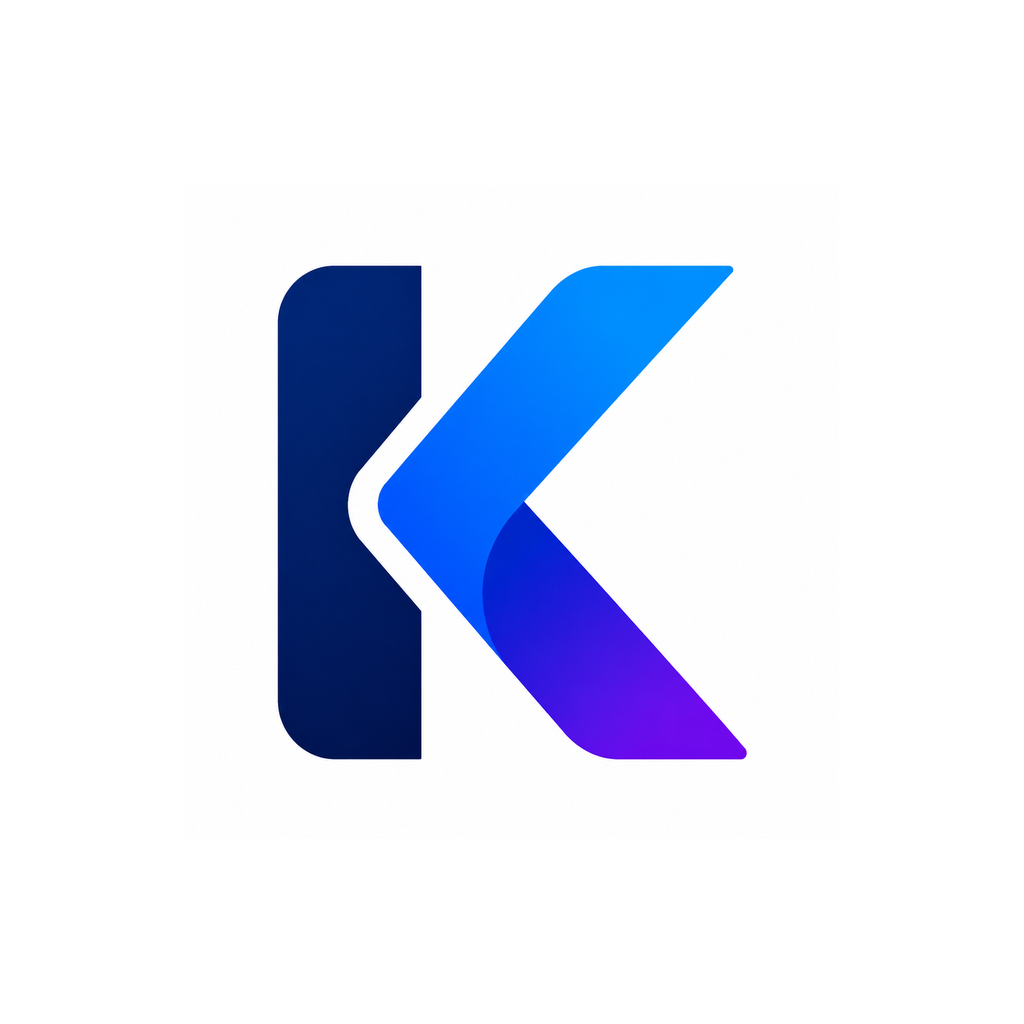
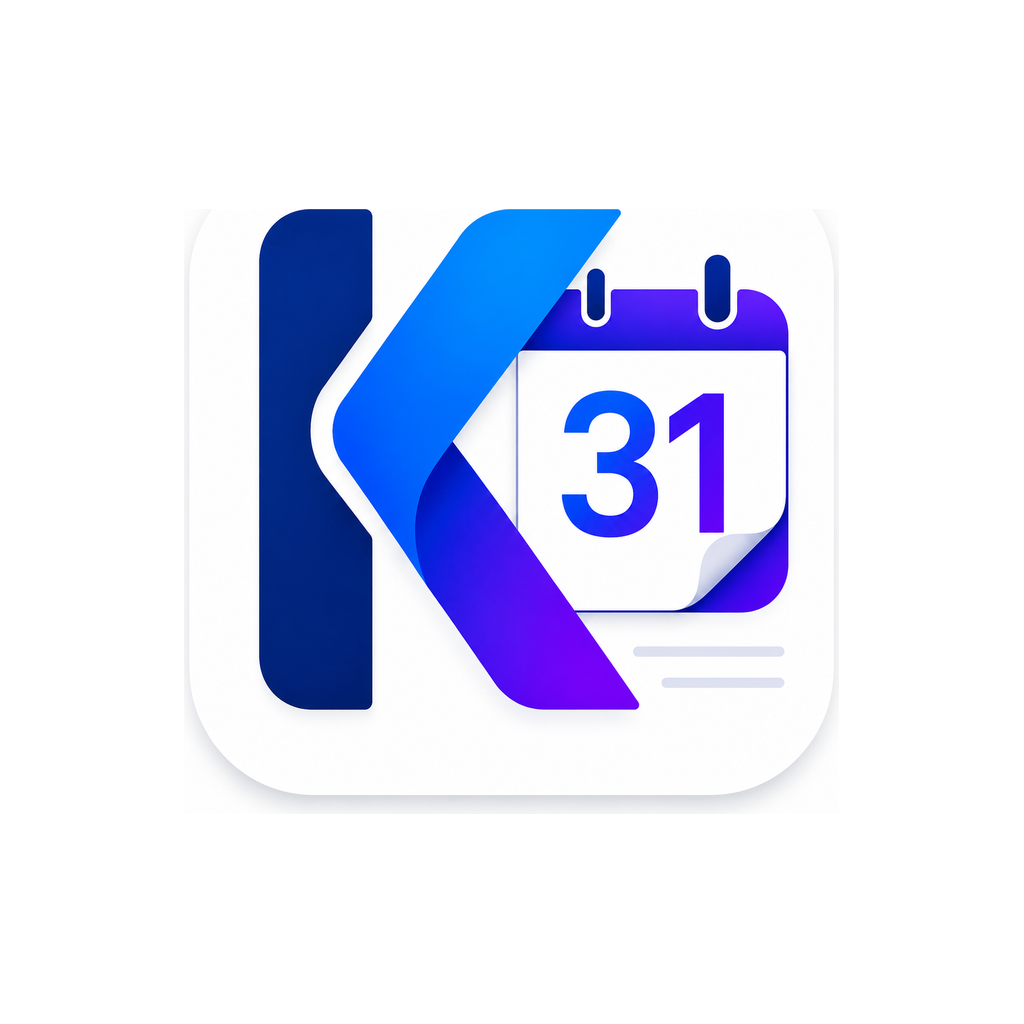
Calendar home redesign (match mockup) + fix all-day reminder time (#6)
* Calendar: redesign home to match mockup + fix all-day reminder time

Home page (calendar_screen.dart + app_theme.dart) now matches the approved
mockup: light app bar with hamburger · 'Month YYYY' + dropdown (opens Today +
view switch) · search · account avatar; circular accent FAB; uppercase weekday
row; event days marked with small colour dots instead of bars; event list cards
restyled to a rounded colour-tile icon + title + time with a right-aligned
category label + dot. Month navigation is now a horizontal swipe.

Reminder fix (db_calendar.dart + form): all-day events have no start time, so
their reminder silently anchored to a hardcoded 09:00 with no way to change it.
The event form now shows a 'Remind at' time picker for all-day events with a
reminder set, and getUpcomingReminders uses that clock time as the anchor — so
an all-day event's notification fires at a moment the user controls. (OS
plumbing — POST_NOTIFICATIONS, USE_EXACT_ALARM, boot receivers — was already
correct; the gap was purely the missing time control.)

Claude-Session: https://claude.ai/code/session_01WoEzvG3Jd3wVgoLs1qYSQ6

* App icon: new Kuk Calendar 'K + 31' logo

Replaces the launcher icon with the approved Kuk Calendar mark (navy K + blue/
purple ribbon + calendar '31'). icon.png is the exact logo on white (1024²);
icon_fg.png is the mark trimmed to its bounding box and scaled to 64% on a
transparent canvas for the Android adaptive icon safe zone (background stays
[…]

Changed region(s): [[0.2188, 0.1875, 0.7812, 0.8125]]

diff --git a/lib/screens/calendar_screen.dart b/lib/screens/calendar_screen.dart
@@ -110,6 +110,7 @@ String _fmtTime(String? hm) {
 }
 
 class _CalendarScreenState extends State<CalendarScreen> {
+  final GlobalKey<ScaffoldState> _scaffoldKey = GlobalKey<ScaffoldState>();
   CalView _view = CalView.month;
   DateTime _focused = DateTime.now();
   DateTime _selected = DateTime.now();
@@ -346,6 +347,47 @@ class _CalendarScreenState extends State<CalendarScreen> {
     _load();
   }
 
+  // Tapping the "Month YYYY ▾" title opens Today + view switching, replacing the
+  // old app-bar Today button and overflow menu so the bar matches the design.
+  Future<void> _openViewMenu() async {
+    await showModalBottomSheet<void>(
+      context: context,
+      backgroundColor: Colors.white,
+      shape: const RoundedRectangleBorder(
+        borderRadius: BorderRadius.vertical(top: Radius.circular(18)),
+      ),
+      builder: (ctx) => SafeArea(
+        child: Column(
+          mainAxisSize: MainAxisSize.min,
+          children: [
+            ListTile(
+              leading: const Icon(Icons.today_outlined, color: AppColors.primary),
+              title: const Text('Today'),
+              onTap: () {
+                Navigator.pop(ctx);
+                _goToday();
+              },
+            ),
+            const Divider(height: 1),
+            for (final v in CalView.values)
+              ListTile(
+                leading: Icon(v.icon,
+                    color: v == _view ? AppColors.primary : AppColors.textSecondary),
+                title: Text(v.label),
+                trailing: v == _view
+                    ? const Icon(Icons.check, color: AppColors.primary, size: 20)
+                    : null,
+                onTap: () {
+                  Navigator.pop(ctx);
+                  _setView(v);
+                },
+              ),
+          ],
+        ),
+      ),
+    );
+  }
+
   String get _title {
     switch (_view) {
       case CalView.month:
@@ -369,9 +411,30 @@ class _CalendarScreenState extends State<CalendarScreen> {
   @override
   Widget build(BuildContext context) {
     return Scaffold(
+      key: _scaffoldKey,
+      backgroundColor: AppColors.bg,
       drawer: _buildDrawer(),
       appBar: AppBar(
-        title: Text(_title),
+        titleSpacing: 4,
+        title: InkWell(
+          borderRadius: BorderRadius.circular(8),
+          onTap: _openViewMenu,
+          child: Padding(
+            padding: const EdgeInsets.symmetric(horizontal: 6, vertical: 6),
+            child: Row(
+              mainAxisSize: MainAxisSize.min,
+              children: [
+                Flexible(
+                  child: Text(_title,
+                      overflow: TextOverflow.ellipsis,
+                      style: const TextStyle(
+                          fontSize: 20, fontWeight: FontWeight.w700)),
+                ),
+                const Icon(Icons.arrow_drop_down, size: 24),
+              ],
+            ),
+          ),
+        ),
         actions: [
           IconButton(
             tooltip: 'Search',
@@ -379,37 +442,38 @@ class _CalendarScreenState extends State<CalendarScreen> {
             onPressed: () => showSearch(
                 context: context, delegate: _EventSearchDelegate(_openExisting)),
           ),
-          IconButton(
-            tooltip: 'Today',
-            icon: const Icon(Icons.today_outlined),
-            onPressed: _goToday,
-          ),
-          PopupMenuButton<CalView>(
-            tooltip: 'View',
-            icon: const Icon(Icons.more_vert),
-            onSelected: _setView,
-            itemBuilder: (_) => CalView.values
-                .map((v) => PopupMenuItem(
-                      value: v,
-                      child: Row(children: [
-                        Icon(v.icon,
-                            size: 18,
-                            color: v == _view ? AppColors.primary : null),
-                        const SizedBox(width: 10),
-                        Text(v.label),
-                      ]),
-                    ))
-                .toList(),
+          Padding(
+            padding: const EdgeInsets.only(left: 2, right: 14),
+            child: GestureDetector(
+              onTap: () => _scaffoldKey.currentState?.openDrawer(),
+              child: CircleAvatar(
+                radius: 17,
+                backgroundColor: AppColors.primary,
+                child: Text(
+                  _accountInitial(),
+                  style: const TextStyle(
+                      color: Colors.white,
+                      fontSize: 15,
+                      fontWeight: FontWeight.w600),
+                ),
+              ),
+            ),
           ),
         ],
       ),
-      floatingActionButton: FloatingActionButton.extended(
+      floatingActionButton: FloatingActionButton(
         onPressed: () => _openEventForm(),
-        icon: const Icon(Icons.add),
-        label: const Text('Event'),
+        backgroundColor: AppColors.primary,
+        foregroundColor: Colors.white,
+        child: const Icon(Icons.add),
       ),
       body: _loading ? const LoadingView() : _buildBody(),
     );
+  }
+
+  String _accountInitial() {
+    final n = CalSync.instance.userName?.trim() ?? '';
+    return n.isNotEmpty ? n.substring(0, 1).toUpperCase() : 'K';
   }
 
   Widget _buildBody() {
@@ -625,55 +689,47 @@ class _CalendarScreenState extends State<CalendarScreen> {
     final selectedEvents = byDay[_key(_selected)] ?? const [];
     return Column(
       children: [
-        _monthNav(),
         _weekdayRow(),
-        _monthGrid(byDay),
+        GestureDetector(
+          behavior: HitTestBehavior.opaque,
+          onHorizontalDragEnd: (d) {
+            final v = d.primaryVelocity ?? 0;
+            if (v < -120) {
+              _step(1);
+            } else if (v > 120) {
+              _step(-1);
+            }
+          },
+          child: _monthGrid(byDay),
+        ),
         if (!kStandaloneCalendar) _filterChips(),
-        const Divider(height: 1),
+        const SizedBox(height: 4),
         Expanded(child: _dayAgenda(selectedEvents)),
       ],
     );
   }
 
-  Widget _monthNav() {
-    return Padding(
-      padding: const EdgeInsets.fromLTRB(8, 6, 8, 2),
-      child: Row(
-        children: [
-          IconButton(
-              onPressed: () => _step(-1),
-              icon: const Icon(Icons.chevron_left)),
-          Expanded(
-            child: Center(
-                child: Text(_monthFmt.format(_focused),
-                    style: const TextStyle(
-                        fontSize: 16, fontWeight: FontWeight.w700))),
-          ),
-          IconButton(
-              onPressed: () => _step(1),
-              icon: const Icon(Icons.chevron_right)),
-        ],
-      ),
-    );
-  }
-
   Widget _weekdayRow() {
-    const labels = ['Sun', 'Mon', 'Tue', 'Wed', 'Thu', 'Fri', 'Sat'];
-    return Row(
-      children: labels
-          .map((l) => Expanded(
-                child: Center(
-                  child: Padding(
-                    padding: const EdgeInsets.only(bottom: 4),
-                    child: Text(l,
-                        style: const TextStyle(
-                            fontSize: 11,
-                            fontWeight: FontWeight.w600,
-                            color: AppColors.textSecondary)),
+    const labels = ['SUN', 'MON', 'TUE', 'WED', 'THU', 'FRI', 'SAT'];
+    return Padding(
+      padding: const EdgeInsets.only(top: 8),
+      child: Row(
+        children: labels
+            .map((l) => Expanded(
+                  child: Center(
+                    child: Padding(
+                      padding: const EdgeInsets.only(bottom: 6),
+                      child: Text(l,
+                          style: const TextStyle(
+                              fontSize: 11,
+                              fontWeight: FontWeight.w600,
+                              letterSpacing: 0.5,
+                              color: AppColors.textMuted)),
+                    ),
                   ),
-                ),
-              ))
-          .toList(),
+                ))
+            .toList(),
+      ),
     );
   }
 
@@ -752,27 +808,24 @@ class _CalendarScreenState extends State<CalendarScreen> {
   }
 
   Widget _eventBars(List<Map<String, dynamic>> events) {
-    if (events.isEmpty) return const SizedBox(height: 12);
+    if (events.isEmpty) return const SizedBox(height: 6);
     final show = events.take(3).toList();
-    return Padding(
-      padding: const EdgeInsets.symmetric(horizontal: 4),
-      child: Column(
+    return SizedBox(
+      height: 6,
+      child: Row(
+        mainAxisAlignment: MainAxisAlignment.center,
         mainAxisSize: MainAxisSize.min,
         children: [
           for (final e in show)
             Container(
-              height: 3,
-              width: double.infinity,
-              margin: const EdgeInsets.only(bottom: 2),
+              width: 5,
+              height: 5,
+              margin: const EdgeInsets.symmetric(horizontal: 1.5),
               decoration: BoxDecoration(
                 color: _colorFor(e['color'] as String?),
-                borderRadius: BorderRadius.circular(2),
+                shape: BoxShape.circle,
               ),
             ),
-          if (events.length > 3)
-            Text('+${events.length - 3}',
-                style: const TextStyle(
-                    fontSize: 8, height: 1, color: AppColors.textSecondary)),
         ],
       ),
     );
@@ -873,7 +926,6 @@ class _CalendarScreenState extends State<CalendarScreen> {
   Widget _eventTile(Map<String, dynamic> e) {
     final color = _colorFor(e['color'] as String?);
     final source = _sources[e['source']] ?? _sources['event']!;
-    final editable = e['editable'] == true;
     final amount = e['amount'] as double?;
     final time = e['time'] as String?;
     final bits = <String>[];
@@ -888,20 +940,23 @@ class _CalendarScreenState extends State<CalendarScreen> {
     final status = e['status'] as String?;
     if (status != null && status.isNotEmpty) bits.add(status);
 
+    final category = (e['category'] as String?) ?? source.label;
     return AppCard(
       onTap: () => _openExisting(e),
-      padding: const EdgeInsets.symmetric(horizontal: 12, vertical: 10),
+      padding: const EdgeInsets.all(12),
       child: Row(
         children: [
           Container(
-            width: 4,
-            height: 38,
+            width: 44,
+            height: 44,
+            alignment: Alignment.center,
             decoration: BoxDecoration(
-                color: color, borderRadius: BorderRadius.circular(2)),
+              color: color,
+              borderRadius: BorderRadius.circular(12),
+            ),
+            child: Icon(source.icon, size: 22, color: Colors.white),
           ),
           const SizedBox(width: 12),
-          Icon(source.icon, size: 18, color: color),
-          const SizedBox(width: 10),
           Expanded(
             child: Column(
               crossAxisAlignment: CrossAxisAlignment.start,
@@ -910,19 +965,35 @@ class _CalendarScreenState extends State<CalendarScreen> {
                     maxLines: 1,
                     overflow: TextOverflow.ellipsis,
                     style: const TextStyle(
-                        fontWeight: FontWeight.w600, fontSize: 13.5)),
+                        fontWeight: FontWeight.w600, fontSize: 15)),
                 if (bits.isNotEmpty)
                   Padding(
                     padding: const EdgeInsets.only(top: 2),
                     child: Text(bits.join('  ·  '),
+                        maxLines: 1,
+                        overflow: TextOverflow.ellipsis,
                         style: const TextStyle(
-                            fontSize: 12, color: AppColors.textSecondary)),
+                            fontSize: 13, color: AppColors.textSecondary)),
                   ),
               ],
             ),
           ),
-          Icon(editable ? Icons.edit_outlined : Icons.chevron_right,
-              size: 16, color: AppColors.textSecondary),
+          const SizedBox(width: 8),
+          if (category.isNotEmpty)
+            Row(
+              mainAxisSize: MainAxisSize.min,
+              children: [
+                Text(category,
+                    style: const TextStyle(
+                        fontSize: 12, color: AppColors.textMuted)),
+                const SizedBox(width: 6),
+                Container(
+                  width: 8,
+                  height: 8,
+                  decoration: BoxDecoration(color: color, shape: BoxShape.circle),
+                ),
+              ],
+            ),
         ],
       ),
     );
@@ -1233,6 +1304,14 @@ class _CalendarScreenState extends State<CalendarScreen> {
                             .toList(),
                         onChanged: (v) => setSheet(() => reminderMin = v ?? -1),
                       ),
+                      // All-day events have no start time, so let the user choose
+                      // the clock time the reminder fires (default 09:00). Without
+                      // this the alarm silently anchored to a fixed 09:00.
+                      if (allDay && reminderMin >= 0) ...[
+                        const SizedBox(height: 10),
+                        _pickerField('Remind at', _fmtTime(startTime),
+                            () => pickTime(true)),
+                      ],
                       const SizedBox(height: 10),
                     ],
                     TextField(

diff --git a/lib/db_calendar.dart b/lib/db_calendar.dart
@@ -369,8 +369,11 @@ extension CalendarStore on AppDb {
           : _expandOccurrences(base, rec, from, to);
       final allDay = ((r['all_day'] as int?) ?? 1) == 1;
       final st = (r['start_time'] as String?) ?? '';
-      var hh = 9, mm = 0; // all-day events remind relative to 09:00
-      if (!allDay && st.contains(':')) {
+      // Reminder anchor: timed events use their start time; all-day events use
+      // the user-chosen "Remind at" clock time (also stored in start_time,
+      // default 09:00), so an all-day reminder fires at a controllable moment.
+      var hh = 9, mm = 0;
+      if (st.contains(':')) {
         final p = st.split(':');
         hh = int.tryParse(p[0]) ?? 9;
         mm = int.tryParse(p[1]) ?? 0;

diff --git a/lib/theme/app_theme.dart b/lib/theme/app_theme.dart
@@ -53,9 +53,12 @@ ThemeData buildAppTheme() {
     textTheme: GoogleFonts.interTextTheme(base.textTheme),
     primaryTextTheme: GoogleFonts.interTextTheme(base.primaryTextTheme),
     appBarTheme: const AppBarTheme(
-      backgroundColor: AppColors.primary,
-      foregroundColor: Colors.white,
+      backgroundColor: AppColors.surface,
+      foregroundColor: AppColors.textPrimary,
+      surfaceTintColor: Colors.transparent,
+      iconTheme: IconThemeData(color: AppColors.textPrimary),
       elevation: 0,
+      scrolledUnderElevation: 0,
     ),
     dividerColor: AppColors.borderSubtle,
   );